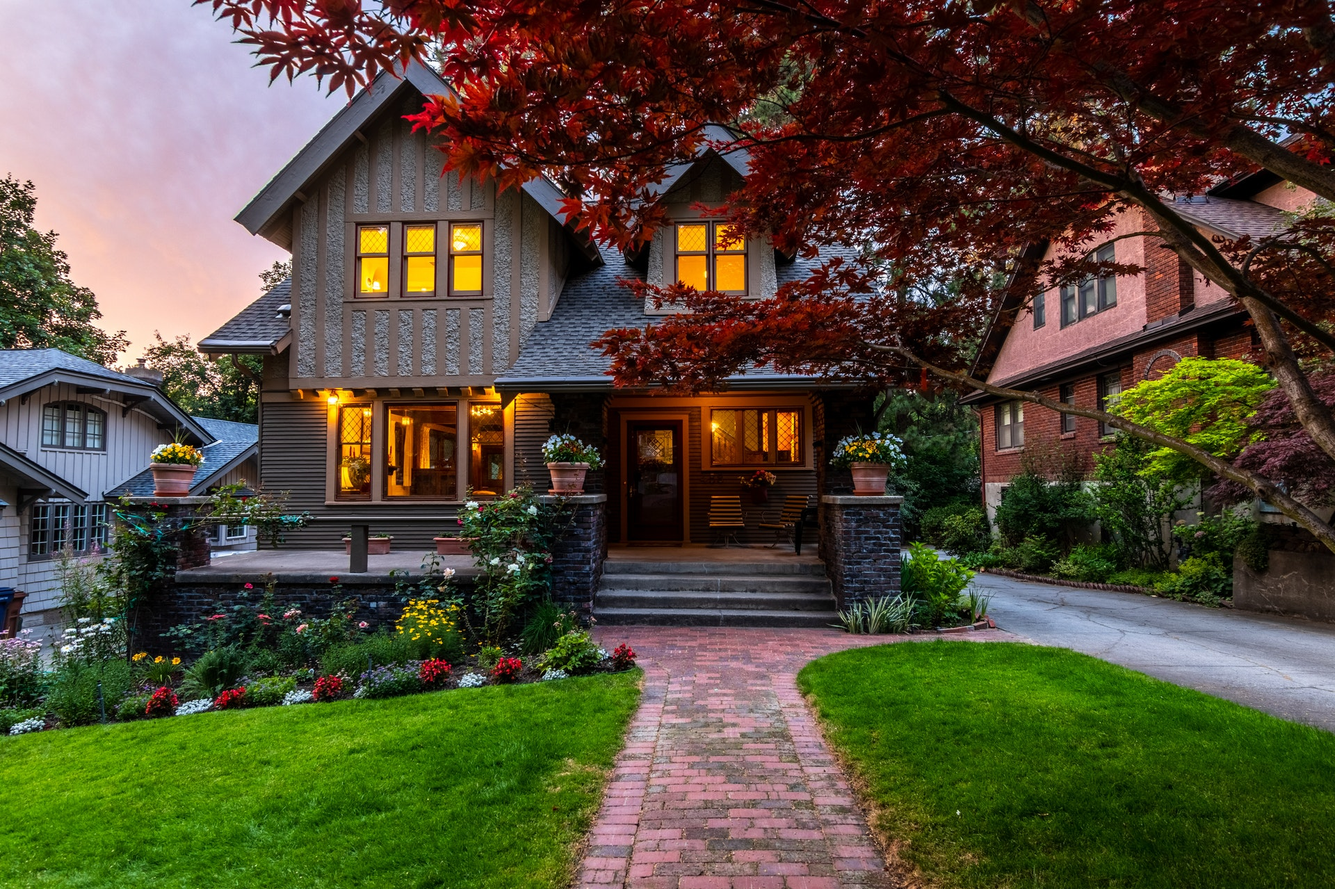
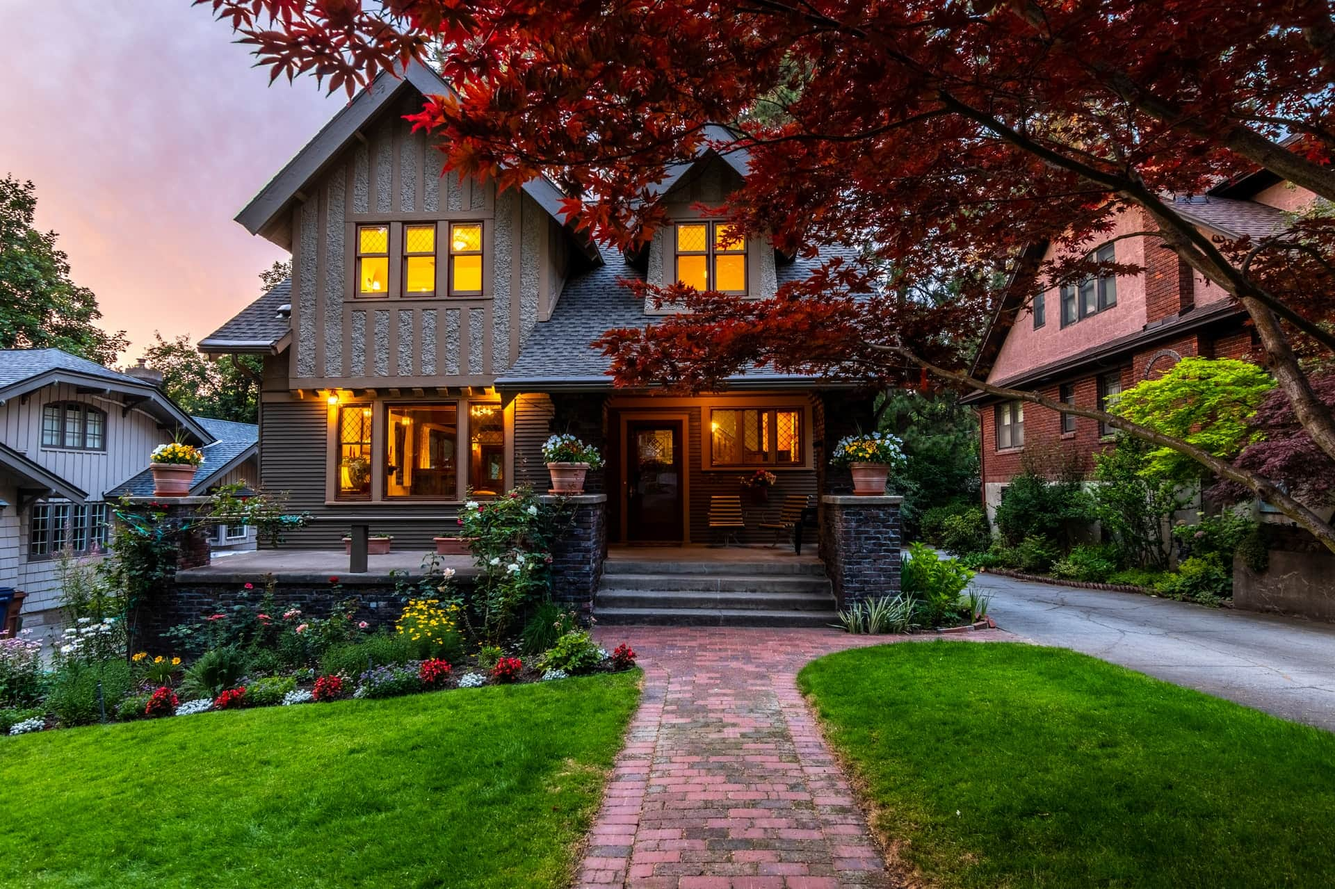
Optimize Image

diff --git a/public/index.html b/public/index.html
@@ -2,42 +2,17 @@
 <html lang="en">
   <head>
     <meta charset="utf-8" />
-    <!-- <link rel="icon" href="%PUBLIC_URL%/favicon.ico" /> -->
+    <link rel="icon" href="%PUBLIC_URL%/favicon.ico" />
     <meta name="viewport" content="width=device-width, initial-scale=1" />
     <meta name="theme-color" content="#000000" />
     <meta
       name="description"
       content="Web site created using create-react-app"
     />
-    <!-- <link rel="apple-touch-icon" href="%PUBLIC_URL%/logo192.png" /> -->
-    <!--
-      manifest.json provides metadata used when your web app is installed on a
-      user's mobile device or desktop. See https://developers.google.com/web/fundamentals/web-app-manifest/
-    -->
-    <!-- <link rel="manifest" href="%PUBLIC_URL%/manifest.json" /> -->
-    <!--
-      Notice the use of %PUBLIC_URL% in the tags above.
-      It will be replaced with the URL of the `public` folder during the build.
-      Only files inside the `public` folder can be referenced from the HTML.
-
-      Unlike "/favicon.ico" or "favicon.ico", "%PUBLIC_URL%/favicon.ico" will
-      work correctly both with client-side routing and a non-root public URL.
-      Learn how to configure a non-root public URL by running `npm run build`.
-    -->
     <title>Housee</title>
   </head>
   <body>
     <noscript>You need to enable JavaScript to run this app.</noscript>
     <div id="root"></div>
-    <!--
-      This HTML file is a template.
-      If you open it directly in the browser, you will see an empty page.
-
-      You can add webfonts, meta tags, or analytics to this file.
-      The build step will place the bundled scripts into the <body> tag.
-
-      To begin the development, run `npm start` or `yarn start`.
-      To create a production bundle, use `npm run build` or `yarn build`.
-    -->
   </body>
 </html>

diff --git a/src/Components/Loader/Loader.js b/src/Components/Loader/Loader.js
@@ -1,11 +1,10 @@
-import React, { useContext, useEffect, useState } from 'react'
+import React, { useCallback, useContext, useEffect, useState } from 'react'
 import { HouseContext } from '../../Context';
 import { RiHomeLine } from 'react-icons/all'
 
 import './loader.css'
 
 export default function Loader({ name }) {
-    console.log("load");
     const [unload, setUnload] = useState();
     const [notFirstTimeLoad, setNotFirstTimeLoad] = useState(true);
 
@@ -13,7 +12,7 @@ export default function Loader({ name }) {
     const contextData = useContext(HouseContext);
     const { loading } = contextData;
 
-    function anime() {
+    const anim = useCallback(() => {
         if (name === "/") {
             document.getElementsByClassName('home-container')[0].classList.add('animate');
             document.getElementsByClassName('carousel')[0].classList.add('animate');
@@ -31,7 +30,7 @@ export default function Loader({ name }) {
             document.getElementsByClassName('single-house-head')[0].classList.add('animate');
             document.getElementsByClassName('carousel')[0].classList.add('animate');
         }
-    }
+    }, [name])
 
     //Used to check if loader is loaded 1st time or not
     if (notFirstTimeLoad) {
@@ -51,14 +50,14 @@ export default function Loader({ name }) {
                     }
                 });
                 document.getElementsByTagName('html')[0].style.overflow = "unset";
-                anime();
+                anim();
                 setNotFirstTimeLoad(false);
             }
         }, 1250)
         return () => {
             isMounted = false
         };
-    }, [loading])
+    }, [loading, anim])
 
     return <div className="loader" style={unload}>
         <div className="circle rotate">

diff --git a/src/Pages/About.js b/src/Pages/About.js
@@ -27,7 +27,7 @@ export default function About({location}) {
             relaxing.
             <br />
             <br />
-            We provide world class service to travelers around world.
+            We provide world class Houses with world class services to travelers around world.
             <br />
             <br />
             <span className="highlyt">Housee</span> seamlessly connects millions
